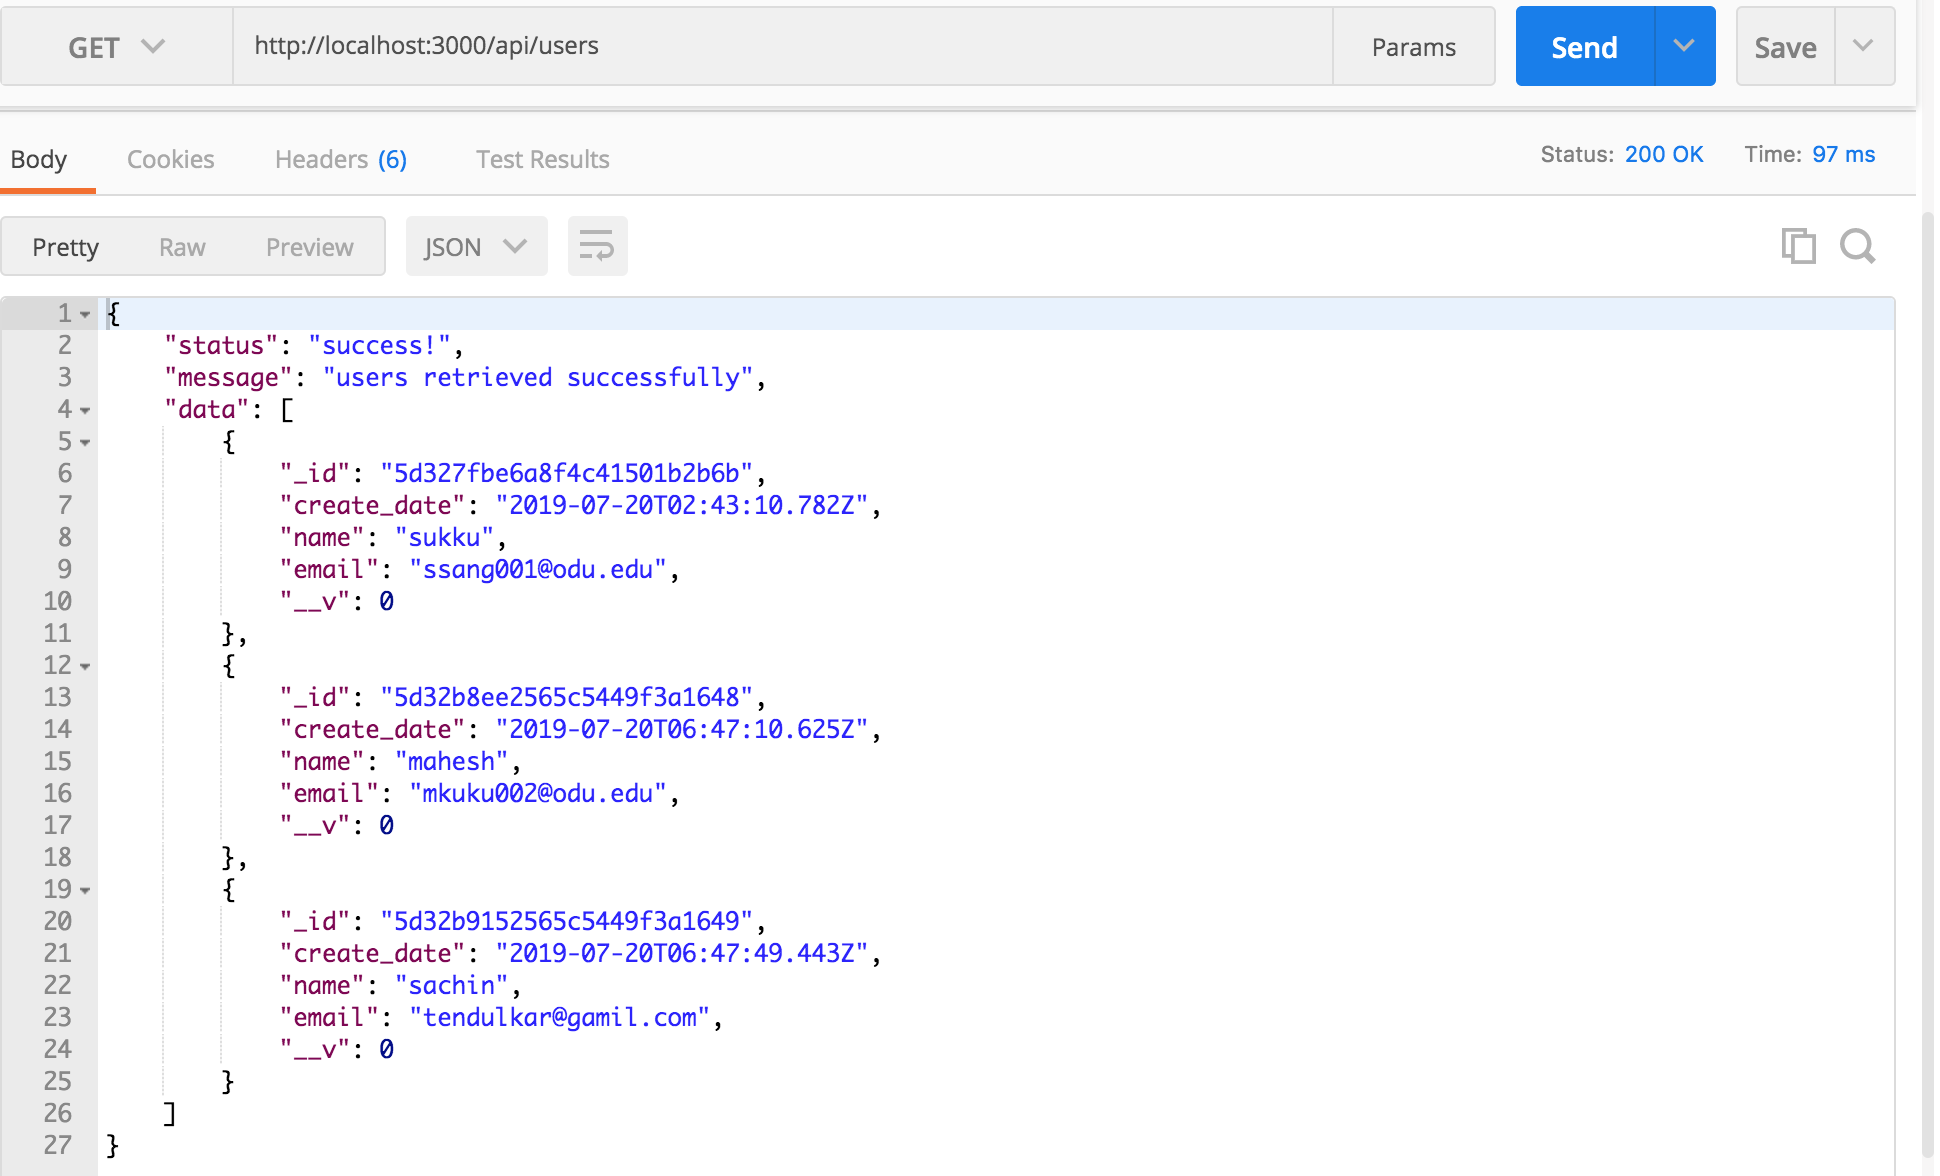
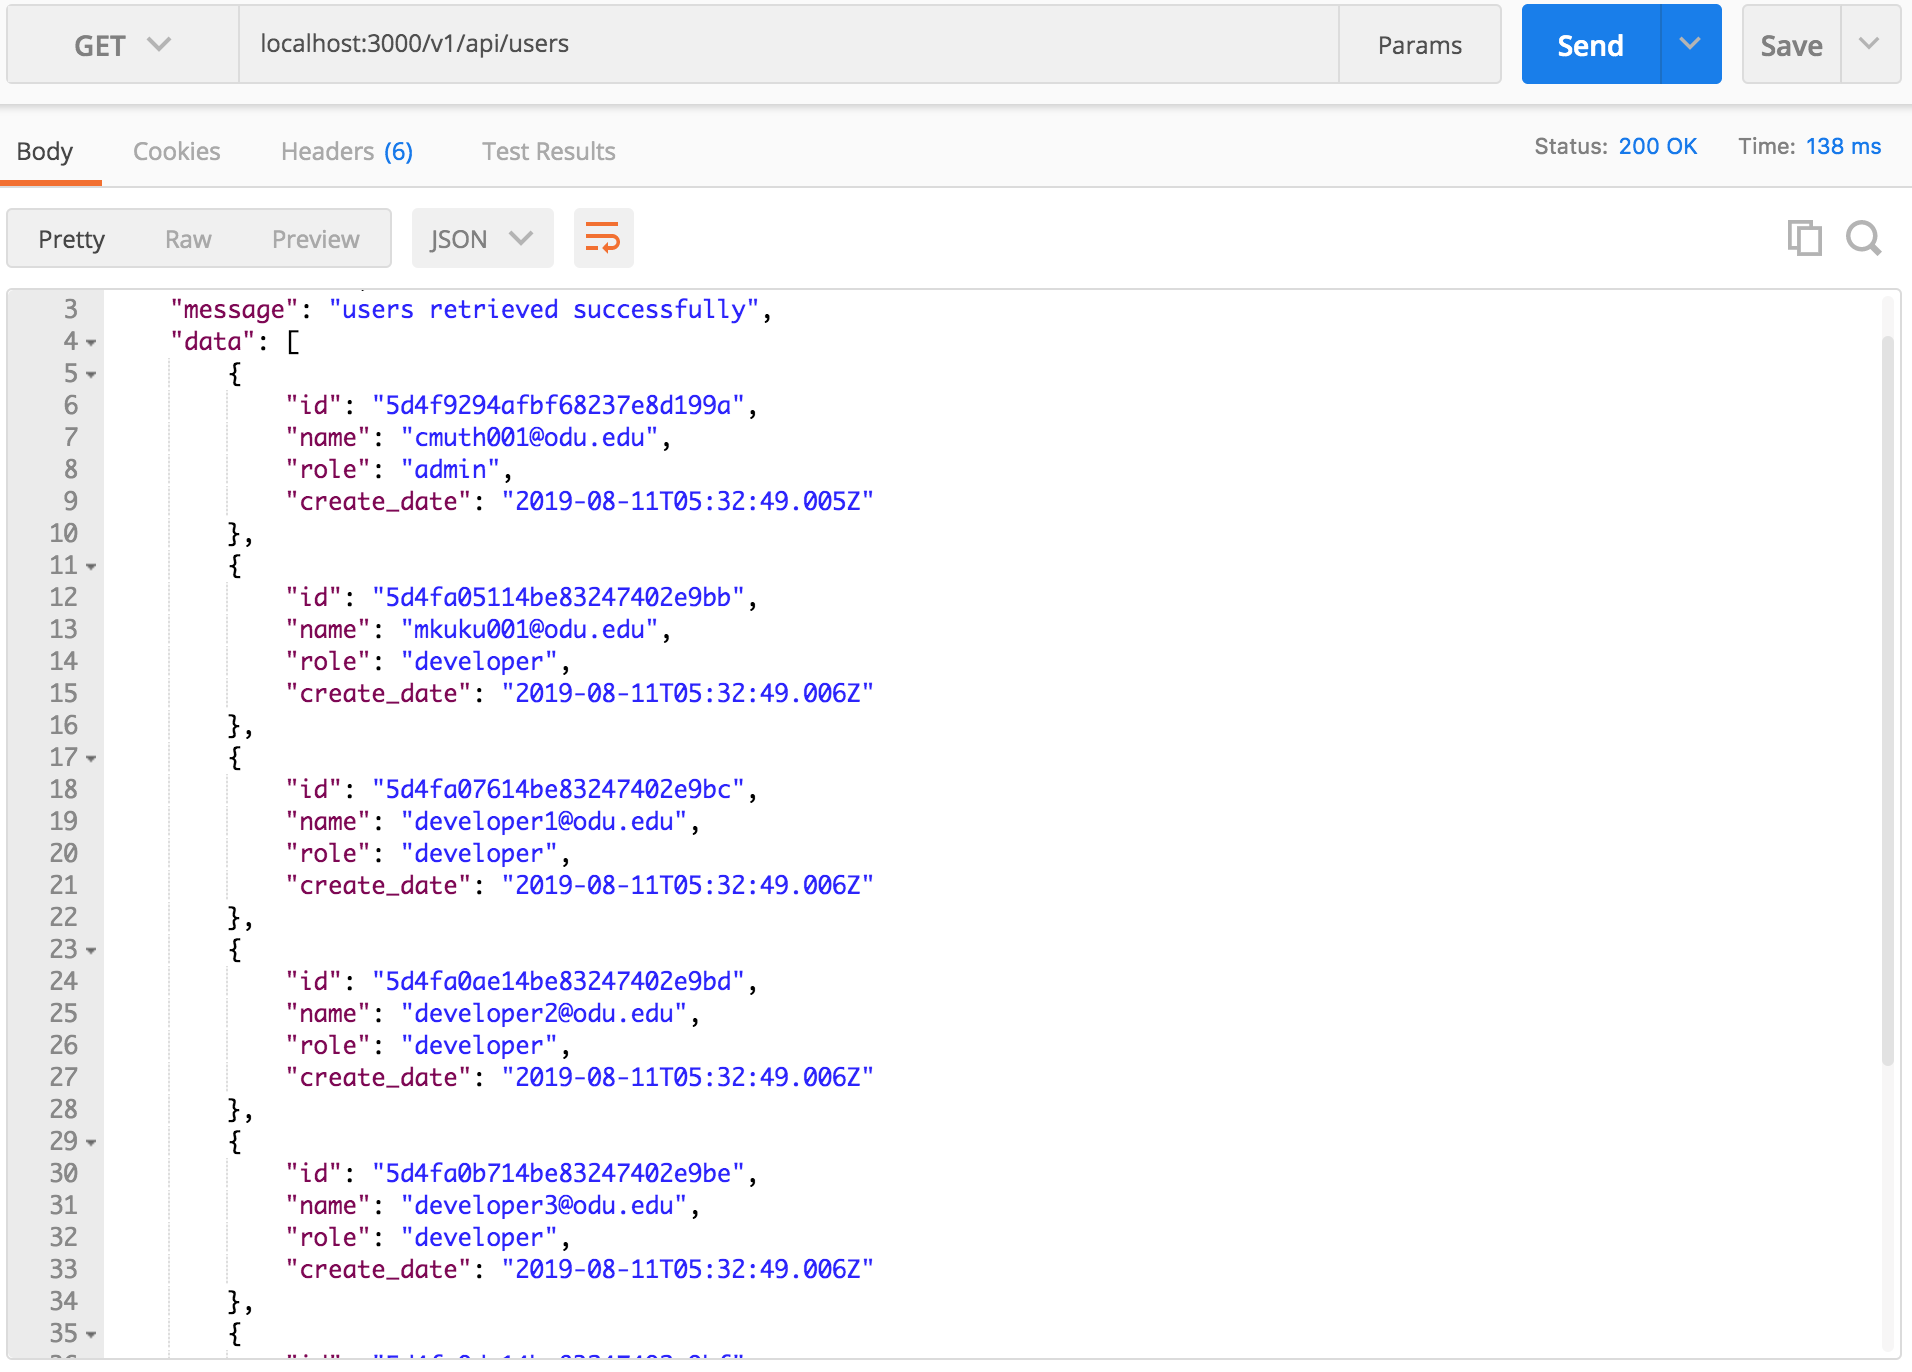
autherization access for put and delete

diff --git a/controller/controller.js b/controller/controller.js
@@ -3,6 +3,7 @@ const Auth =  require('../model/auth-model.js');
 const bcrypt = require('bcrypt');
 const jwt = require('jsonwebtoken');
 const private_Key = 'this is my secret key';
+var login_role = '';
 exports.authIndex = (req, res, next) => {
     res.status(200).json({
         message: 'Auth Index Route Working',
@@ -22,12 +23,14 @@ exports.checkLogin = (req, res, next) => {
             } else {
                 // console.log("validJWTNeeded: ", req.headers['authorization']);
                 req.jwt = jwt.verify(authorization[1], private_Key);
+
                 return next();
             }
         } catch (err) {
             return res.status(403).json({
-                Error: 'Erorr occured during authentication',
-                status: 401,
+                message: 'Erorr occured during authentication',
+                Error: err,
+                status: 403,
             });
         }
     } else {
@@ -37,6 +40,18 @@ exports.checkLogin = (req, res, next) => {
         });
     }
 };
+exports.checkRole = (req, res, next) => {
+   
+        if(login_role == 'admin'){
+            console.log("User have Access");
+            return next();
+        }else{
+            console.log("Access denied!");
+            return res.status(401).json({
+                message: 'Access denied!'
+            });
+        }
+}
 exports.login = (req, res, next) => {
     // console.log(req.headers)
     // console.log("---")
@@ -57,12 +72,12 @@ exports.login = (req, res, next) => {
                     });
                 }
                 else{
-                    
+                    login_role = user.role;
                     const token = jwt.sign(
                         {email: user.emit, user_id: user._id}, 
                         private_Key, 
                         {expiresIn:'1h'} );
-
+                    
                     return res.status(401).json({
                         message: 'Autenticated successfully!',
                         token: token,
@@ -86,11 +101,13 @@ exports.authSignup = (req, res, next) => {
         const authDetails = new Auth({
             email: req.body.email,
             password: hash,
+            name: req.body.name,
+            role: req.body.role, 
         });
         authDetails.save()
         .then(result => {
             res.status(201).json({
-                message: 'created new user',
+                message: 'New user is registered',
                 result: result,
             });
         })
@@ -104,6 +121,20 @@ exports.authSignup = (req, res, next) => {
 };
 exports.index = (req, res, next) => {
     User.get((err, users) => {
+        var slice_deatils = [];
+        users.forEach(function(item) {
+            // console.log(item);
+            if(login_role == item.role || login_role == 'admin'){
+                slice_deatils.push(
+                {   id: item._id,
+                    name: item.email,
+                    role: item.role,
+                    create_date:item.create_date,
+                });
+            }
+            
+        });
+
         if(err){
             res.json({
                 status: "Error occured in getting users",
@@ -111,9 +142,9 @@ exports.index = (req, res, next) => {
             });
         }
         res.json({
-            status: "success!",
+            status: 200,
             message: "users retrieved successfully",
-            data: users
+            data: slice_deatils,
         });
     });
 };
@@ -123,6 +154,7 @@ exports.newUser = (req, res) => {
     console.log(req.body);
     user.name = req.body.name ? req.body.name : user.name;
     user.email = req.body.email ? req.body.email : user.email;
+    user.role = req.body.email ? req.body.email : user.email;
 
     user.save((err) => {
         if(err){

diff --git a/index.js b/index.js
@@ -17,12 +17,12 @@ app.use(bodyParser.urlencoded({
 app.use(bodyParser.json());
 // Setup server port
 var port = process.env.PORT || 3000;
-app.use('/api', apiRoutes);
-app.use('/auth', authRoutes);
+app.use('/v1/api', apiRoutes);
+app.use('/v1/auth', authRoutes);
 
 mongoose
   .connect(
-    "mongodb+srv://cmuth001:uIQc0vhkYeHTbzkI@chat-room-eqvp3.mongodb.net/secure-rest-api?retryWrites=true&w=majority", { useNewUrlParser: true }
+    "mongodb+srv://cmuth001:uIQc0vhkYeHTbzkI@chat-room-eqvp3.mongodb.net/secure-rest-api", { useNewUrlParser: true }
   )
   .then(() => {
     console.log("Connected to database!");
@@ -30,16 +30,6 @@ mongoose
   .catch(() => {
     console.log("Connection failed!");
   });
-// // Connect to Mongoose and set connection variable
-// mongoose.connect('mongodb://localhost/test', { useNewUrlParser: true});
-// var db = mongoose.connection;
-
-// // Added check for DB connection
-// if(!db)
-//     console.log("Error connecting db")
-// else
-//     console.log("Db connected successfully")
-// Sending message to the default Route
 app.get('/', function (req, res) {
     res.json({
         status: 'Main page',

diff --git a/routes/api-routes.js b/routes/api-routes.js
@@ -8,10 +8,10 @@ router.get('/', function(req, res){
 });
 // users routes
 router.route('/users').get([controller.checkLogin, controller.index])
-                      .post(controller.newUser);
+                      .post([controller.checkLogin, controller.newUser]);
                       
-router.route('/user/:id').get([controller.checkLogin,controller.view])
-                         .put(controller.update)
-                         .delete(controller.delete);
+router.route('/user/:id').get(controller.view)
+                         .put([controller.checkLogin, controller.checkRole, controller.update])
+                         .delete([controller.checkLogin, controller.checkRole, controller.delete]);
 // Expose API routes to public
 module.exports = router;

diff --git a/model/auth-model.js b/model/auth-model.js
@@ -2,8 +2,10 @@ const mongoose = require('mongoose');
 const uniqueValidator = require('mongoose-unique-validator');
 
 const authSchema = mongoose.Schema({
-    email: { type: String, require: true, unique:true},
-    password: { type: String, require: true},
+    name: { type: String, required: true},
+    email: { type: String, required: true, unique:true},
+    password: { type: String, required: true},
+    role: { type: String, required: true},
 });
 authSchema.plugin(uniqueValidator);
 module.exports = mongoose.model('User', authSchema);

diff --git a/model/user-model.js b/model/user-model.js
@@ -10,6 +10,10 @@ var userSchema = mongoose.Schema({
         type: String,
         required: true,
     },
+    role: {
+        type: String,
+        required: true,
+    },
     create_date: {
         type: Date,
         default: Date.now
